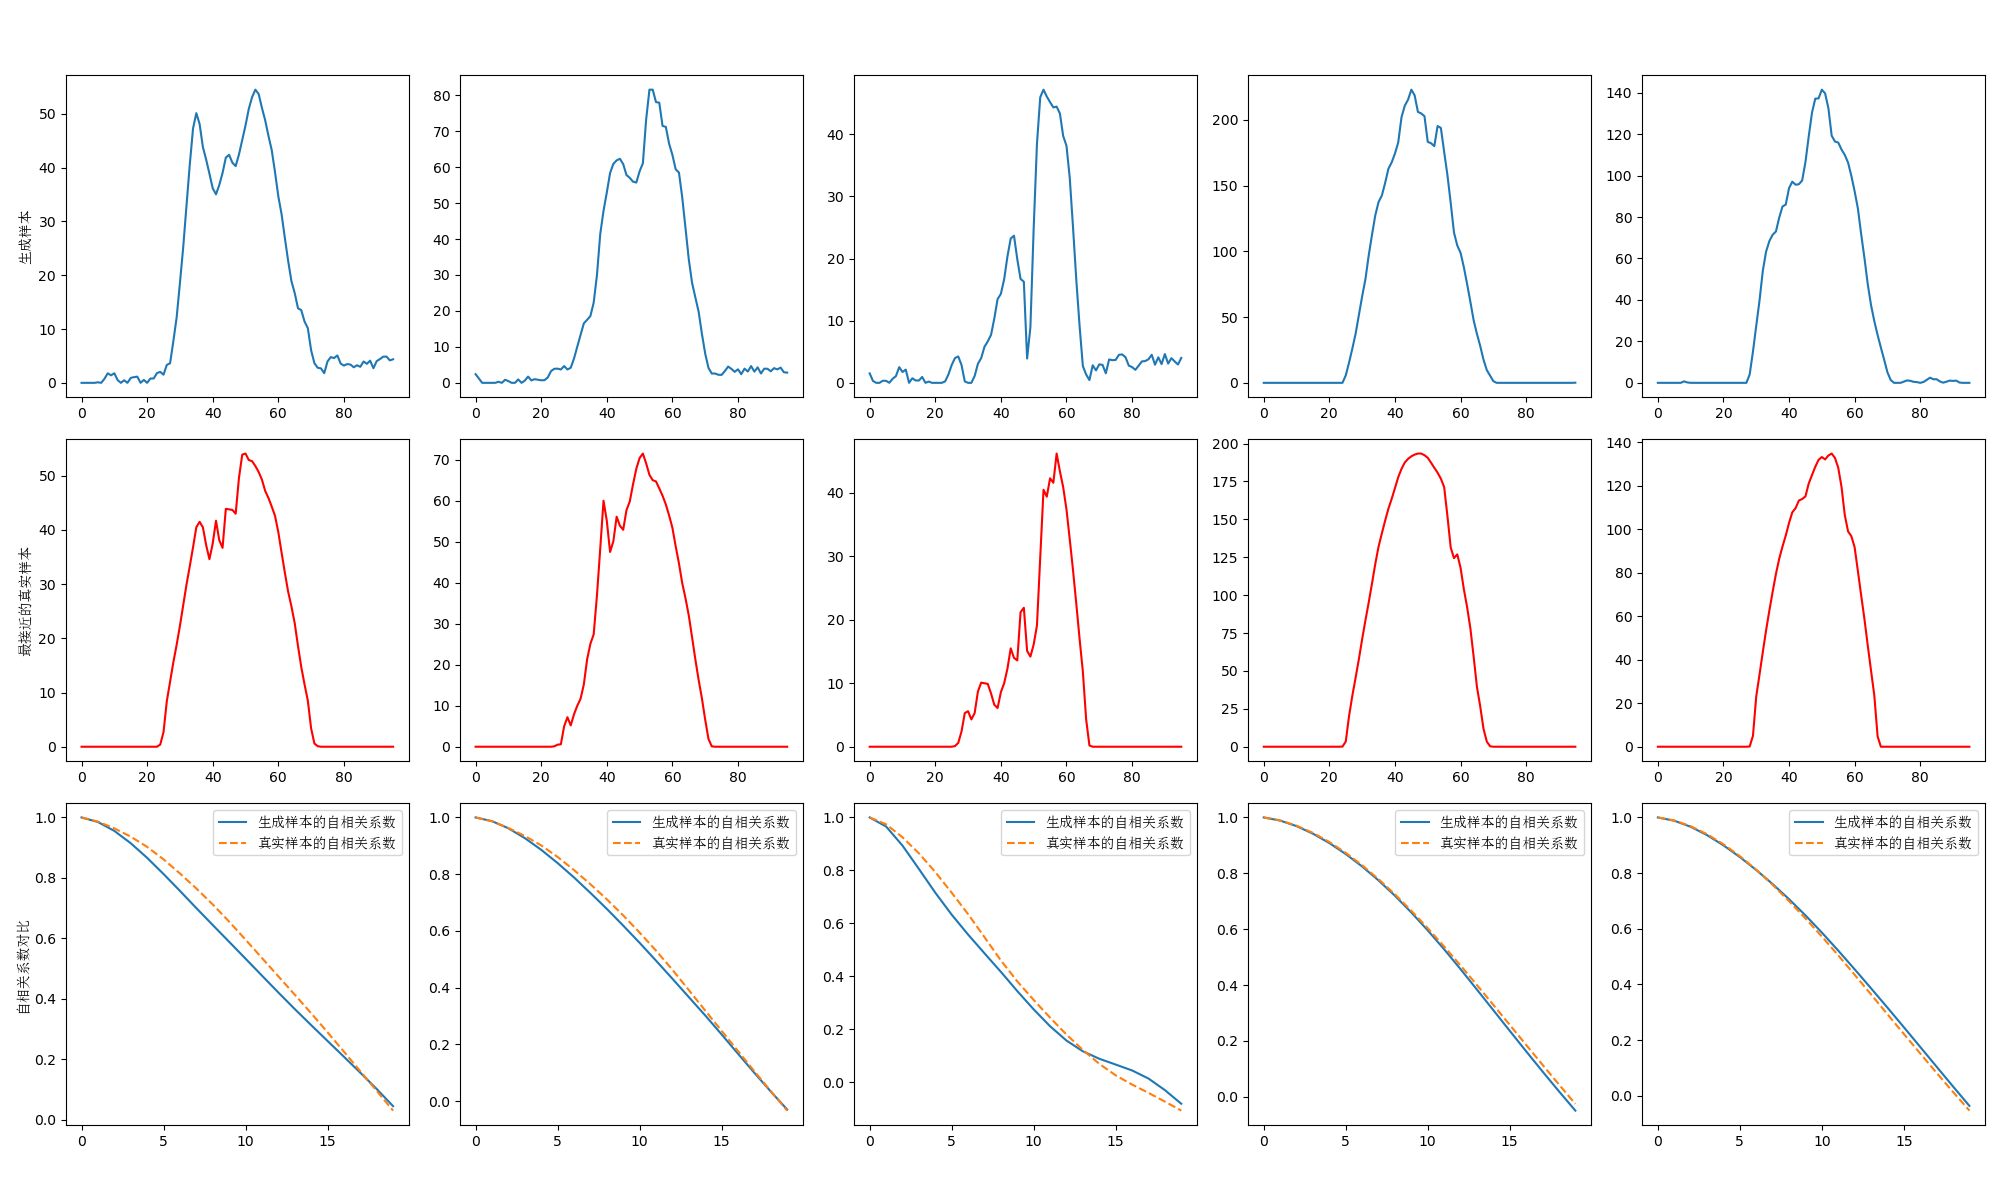
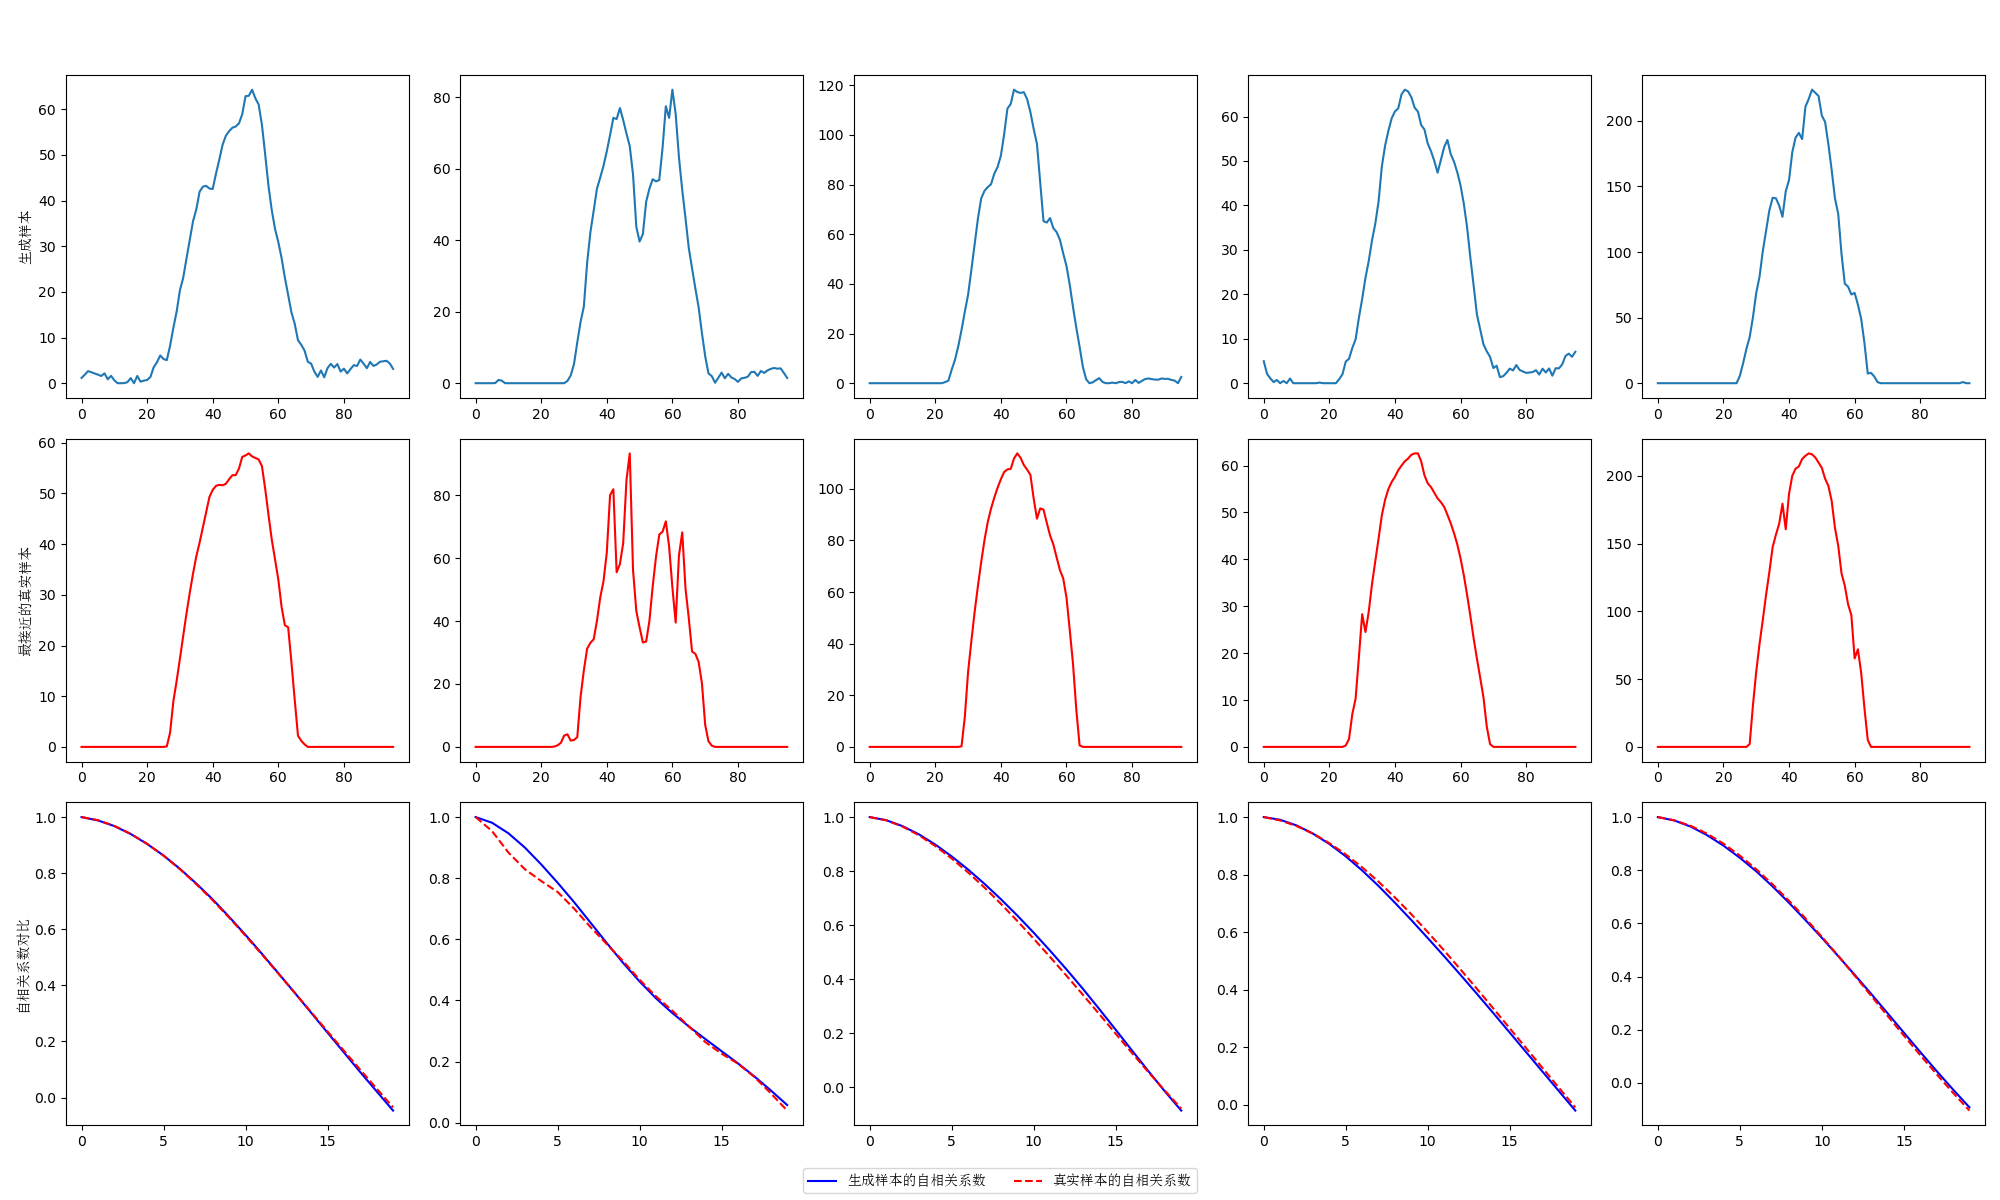
评估结果

diff --git a/DM_informer/generated_analysis_acf.py b/DM_informer/generated_analysis_acf.py
@@ -7,9 +7,8 @@ font_path = 'C:\\Windows\\Fonts\\simsun.ttc'
 font_prop = fm.FontProperties(fname=font_path, size=10)
 
 # 加载生成样本和真实样本
-#generated_samples = np.load(r'C:\Users\boaty\Documents\WHU Files\硕士项目\综合能源场景生成\GAN\sample_wgan\generated_samples.npy')
-generated_samples = np.load('sample_ddpm\ddpm_sample.npy')
-real_samples = np.load('ca_data_99solar_15min.npy')
+generated_samples = np.load('GAN\sample_vae\generated_samples.npy')
+real_samples = np.load('DM_informer/ca_data_99solar_15min.npy')
 real_samples = real_samples.reshape(-1, 96, 1)
 
 # 计算自相关系数
@@ -41,24 +40,33 @@ fig, axs = plt.subplots(3, 5, figsize=(20, 12))
 
 for i in range(5):
     # 第一行：生成样本
-    axs[0, i].plot(selected_generated_samples[i].squeeze())
+    axs[0, i].plot(selected_generated_samples[i].squeeze(), label='生成样本')
     
     # 第二行：对应的真实样本
-    axs[1, i].plot(selected_real_samples[i], color='red')
+    axs[1, i].plot(selected_real_samples[i], color='red', label='最接近的真实样本')
     
     # 第三行：自相关系数
     gen_acf, real_acf = selected_acfs[i]
-    axs[2, i].plot(gen_acf, label='生成样本的自相关系数')
-    axs[2, i].plot(real_acf, label='真实样本的自相关系数', linestyle='--')
-    axs[2, i].legend(prop=font_prop)
+    axs[2, i].plot(gen_acf, label='生成样本的自相关系数', color='blue')
+    axs[2, i].plot(real_acf, label='真实样本的自相关系数', linestyle='--', color='red')
+
+# # 设置每一行的标题
+# for i in range(5):
+#     axs[0, i].set_title('生成样本', fontproperties=font_prop)
+#     axs[1, i].set_title('最接近的真实样本', fontproperties=font_prop)
+#     axs[2, i].set_title('自相关系数对比', fontproperties=font_prop)
 
 # 设置每一行的标题
 axs[0, 0].set_ylabel('生成样本', fontproperties=font_prop)
 axs[1, 0].set_ylabel('最接近的真实样本', fontproperties=font_prop)
 axs[2, 0].set_ylabel('自相关系数对比', fontproperties=font_prop)
 
+# 在图外设置图例
+lines_labels = [axs[2, i].get_legend_handles_labels() for i in range(5)]
+lines, labels = [sum(lol, []) for lol in zip(*lines_labels)]
+fig.legend(lines[:2], labels[:2], loc='lower center', prop=font_prop, ncol=2)
+
 # 设置总体标题和布局
-# plt.suptitle('生成样本、最接近的真实样本及其自相关系数对比', fontproperties=font_prop)
 plt.tight_layout(rect=[0, 0.03, 1, 0.95])
-plt.savefig('sample_comparison_acf.png')
+plt.savefig('GAN\VAE\sample_comparison_acf.png')
 plt.show()

diff --git a/DM_informer/generated_analysis_validity.py b/DM_informer/generated_analysis_validity.py
@@ -1,0 +1,68 @@
+import numpy as np
+import matplotlib.pyplot as plt
+
+# 加载生成样本和真实样本
+generated_samples = np.load('GAN\sample_vae\generated_samples.npy')
+real_samples = np.load('DM_informer/ca_data_99solar_15min.npy')
+
+# 将真实样本重新调整形状
+real_samples = real_samples.reshape(-1, 96, 1)
+
+# 计算功率区间平均宽度
+def calculate_mean_width(samples):
+    P_t_up = np.max(samples, axis=0)
+    P_t_down = np.min(samples, axis=0)
+    W = np.mean(P_t_up - P_t_down)
+    return W
+
+# 计算生成样本和真实样本的功率区间平均宽度
+generated_mean_width = calculate_mean_width(generated_samples)
+real_mean_width = calculate_mean_width(real_samples)
+
+# 输出结果
+print(f'生成样本的功率区间平均宽度: {generated_mean_width}')
+print(f'真实样本的功率区间平均宽度: {real_mean_width}')
+
+# 将结果保存到CSV文件
+results = {
+    '样本类型': ['生成样本', '真实样本'],
+    '功率区间平均宽度': [generated_mean_width, real_mean_width]
+}
+
+import pandas as pd
+df = pd.DataFrame(results)
+df.to_csv('GAN\VAE\power_interval_mean_width.csv', index=False, encoding='utf_8_sig')
+
+# 展示结果
+print("功率区间平均宽度已保存到 'power_interval_mean_width.csv'")
+
+# 获取真实数据和生成数据的数量
+N, T, _ = real_samples.shape
+M = generated_samples.shape[0]
+
+# 初始化覆盖数量
+coverage_count = 0
+
+# 遍历每个时刻点
+for t in range(T):
+    # 获取生成数据在该时刻的最小值和最大值
+    P_min = np.min(generated_samples[:, t])
+    P_max = np.max(generated_samples[:, t])
+    
+    # 统计真实数据在该时刻是否在生成数据的范围内
+    n_t = np.sum((real_samples[:, t, 0] >= P_min) & (real_samples[:, t, 0] <= P_max))
+    coverage_count += n_t
+
+# 计算覆盖率
+coverage_rate = coverage_count / (N * T)
+print(f"覆盖率: {coverage_rate}")
+
+# 保存覆盖率结果到CSV文件
+import csv
+
+with open('GAN\VAE\coverage_rate.csv', mode='w', newline='') as file:
+    writer = csv.writer(file)
+    writer.writerow(['样本类型', '覆盖率'])
+    writer.writerow(['生成样本', coverage_rate])
+
+print("覆盖率结果已保存到coverage_rate.csv文件中。")

diff --git a/DM_informer/generated_analysis_prob.py b/DM_informer/generated_analysis_prob.py
@@ -5,11 +5,11 @@ from matplotlib.font_manager import FontProperties
 
 # 设置中文字体
 font_path = 'C:\\Windows\\Fonts\\simsun.ttc'
-font_prop = FontProperties(fname=font_path)
+font_prop = FontProperties(fname=font_path, size=10)
 
 # 加载数据
-generated_samples = np.load('sample_ddpm/ddpm_sample.npy').flatten()
-real_samples = np.load('ca_data_99solar_15min.npy').flatten()
+generated_samples = np.load('GAN\sample_vae\generated_samples.npy').flatten()
+real_samples = np.load('DM_informer/ca_data_99solar_15min.npy').flatten()
 
 # 计算CDF
 def calculate_cdf(data):
@@ -30,25 +30,27 @@ gen_bin_centers, gen_pdf = calculate_pdf(generated_samples)
 real_bin_centers, real_pdf = calculate_pdf(real_samples)
 
 # 绘制CDF对比图
-plt.figure(figsize=(12, 6))
-
-plt.subplot(1, 2, 1)
-plt.plot(real_data_sorted, real_cdf, label='真实数据', linestyle='--')
-plt.plot(gen_data_sorted, gen_cdf, label='生成数据')
+plt.figure(figsize=(6, 6))
+plt.plot(real_data_sorted, real_cdf, label='真实数据', linestyle='--', color='red')
+plt.plot(gen_data_sorted, gen_cdf, label='生成数据', color='blue')
 plt.xlabel('值', fontproperties=font_prop)
 plt.ylabel('CDF', fontproperties=font_prop)
 plt.title('CDF对比', fontproperties=font_prop)
 plt.legend(prop=font_prop)
 
+# 保存CDF图像
+plt.savefig('GAN\VAE\cdf_comparison.png')
+plt.show()
+
 # 绘制PDF对比图
-plt.subplot(1, 2, 2)
-plt.plot(real_bin_centers, real_pdf, label='真实数据', linestyle='--')
-plt.plot(gen_bin_centers, gen_pdf, label='生成数据')
+plt.figure(figsize=(6, 6))
+plt.plot(real_bin_centers, real_pdf, label='真实数据', linestyle='--', color='red')
+plt.plot(gen_bin_centers, gen_pdf, label='生成数据', color='blue')
 plt.xlabel('值', fontproperties=font_prop)
 plt.ylabel('PDF', fontproperties=font_prop)
 plt.title('PDF对比', fontproperties=font_prop)
 plt.legend(prop=font_prop)
 
-# 保存图像
-plt.savefig('cdf_pdf_comparison.png')
+# 保存PDF图像
+plt.savefig('GAN\VAE\pdf_comparison.png')
 plt.show()
